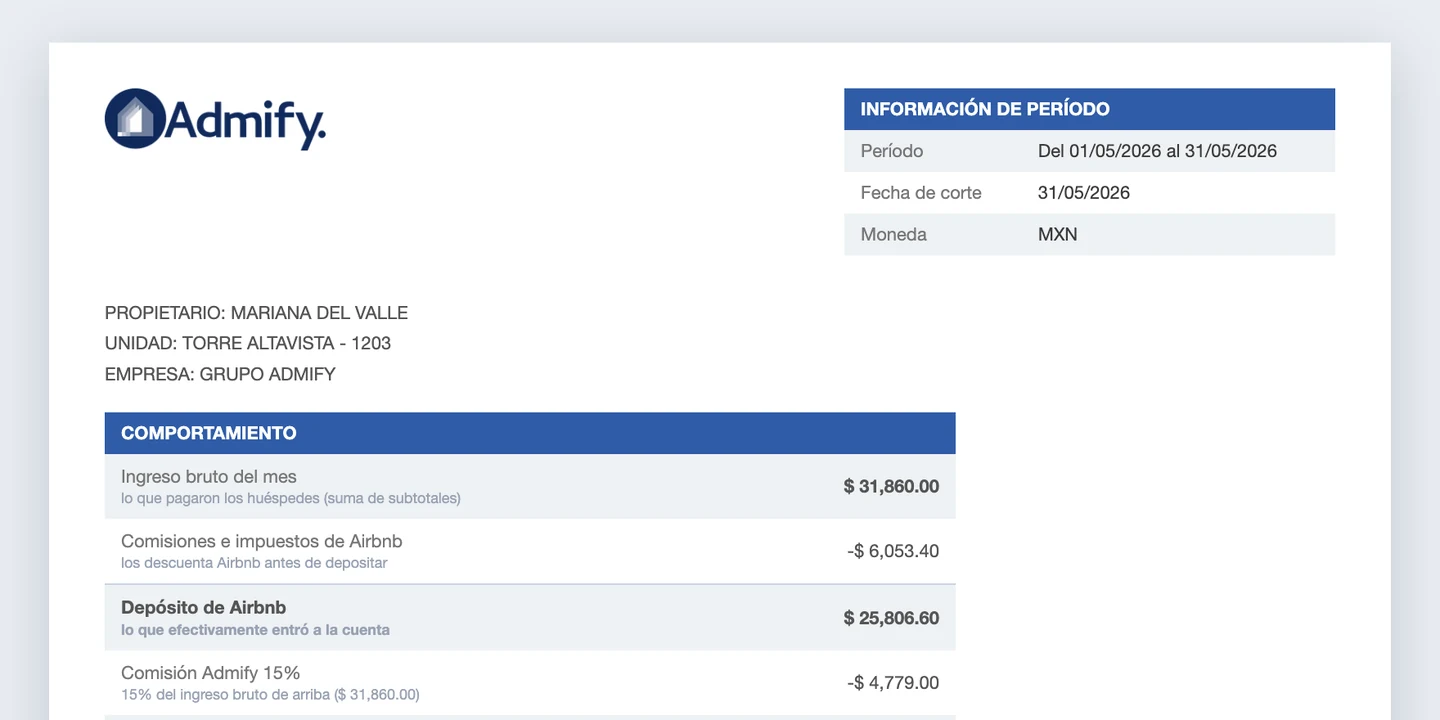
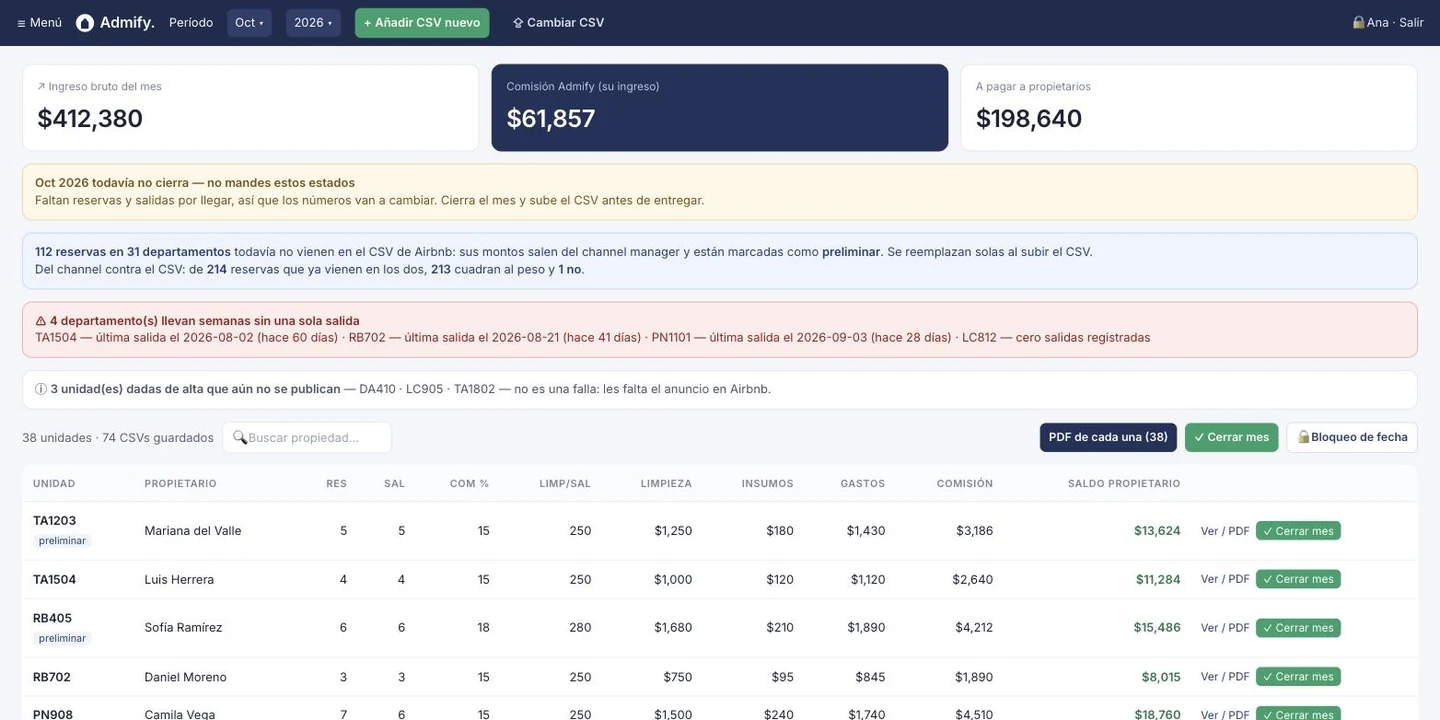
proyectos: panel de Admify mas amplio y sin cortes; preview de Admify con el panel (datos de ejemplo)

diff --git a/proyectos.html b/proyectos.html
@@ -10,7 +10,7 @@
   <link rel="preconnect" href="https://fonts.gstatic.com" crossorigin>
   <link rel="stylesheet" href="https://fonts.googleapis.com/css2?family=Space+Grotesk:wght@400;500;600;700&amp;family=Inter:wght@400;500;600&amp;family=JetBrains+Mono:wght@400;500&amp;display=swap">
   <link rel="stylesheet" href="styles.css?v=20260930a">
-  <link rel="stylesheet" href="proyectos.css?v=20261001a">
+  <link rel="stylesheet" href="proyectos.css?v=20261001b">
   <script>
     /* el nombre del proyecto "vuela" desde la lista de la principal hasta aquí */
     (function(){ var h=(location.hash||'').replace('#',''); if(/^[a-z-]+$/.test(h)){ document.write('<style>#'+h+' .pj-name{view-transition-name:pj-title}</style>'); } })();
@@ -55,7 +55,7 @@
   </nav>
 
   <!-- ============ 01 ADMIFY · SISTEMA ============ -->
-  <article class="pj" id="admify" data-pj>
+  <article class="pj wide" id="admify" data-pj>
     <div class="pj-info">
       <div class="pj-top"><span class="pj-n">01</span><span class="pj-type sys">Sistema a medida</span></div>
       <h2 class="pj-name">Admify</h2>
@@ -98,7 +98,7 @@
   </article>
 
   <!-- ============ 02 PICHOUN · SISTEMA ============ -->
-  <article class="pj" id="pichoun" data-pj>
+  <article class="pj wide" id="pichoun" data-pj>
     <div class="pj-info">
       <div class="pj-top"><span class="pj-n">02</span><span class="pj-type sys">Sistema a medida</span></div>
       <h2 class="pj-name">Pichoun</h2>
@@ -332,6 +332,6 @@
 </footer>
 
 <script defer src="lenis.min.js?v=20261001c"></script>
-<script defer src="proyectos.js?v=20261001a"></script>
+<script defer src="proyectos.js?v=20261001b"></script>
 </body>
 </html>

diff --git a/proyectos.css b/proyectos.css
@@ -106,6 +106,7 @@ html.lenis{ scroll-behavior:auto !important; }
   border-bottom:1px solid var(--line);
   scroll-margin-top:118px;
 }
+.pj.wide{ grid-template-columns:minmax(0,.72fr) minmax(0,1.28fr); }
 .pj-info{ position:sticky; top:150px; }
 .pj-top{ display:flex; align-items:center; gap:.8rem; margin-bottom:1.1rem; }
 .pj-n{ font-family:"JetBrains Mono",monospace; font-size:.8rem; color:var(--mute); }
@@ -248,7 +249,8 @@ html.lenis{ scroll-behavior:auto !important; }
 /* ============================================================
    MOCK DEL SISTEMA DE ADMIFY (datos 100% inventados)
    ============================================================ */
-.am{ font-family:Inter,system-ui,sans-serif; color:#1B2437; background:#F4F6FA; font-size:13px; min-width:760px; }
+.am{ font-family:Inter,system-ui,sans-serif; color:#1B2437; background:#F4F6FA; font-size:13px; width:960px; }
+.pj-screen{ overflow-x:hidden; }
 .am-app{ height:46px; display:flex; align-items:center; gap:14px; padding:0 16px; background:#1E2B4D; color:#fff; font-size:12px; }
 .am-app .am-logo{ display:flex; align-items:center; gap:6px; font-weight:700; font-size:15px; letter-spacing:-.01em; }
 .am-app .am-logo i{ width:18px; height:18px; border-radius:50%; background:#fff; display:inline-block; position:relative; }

diff --git a/proyectos.js b/proyectos.js
@@ -140,12 +140,12 @@
     fitMocks();
     window.addEventListener("resize", fitMocks);
   }
-  // el mock está diseñado a 760px; en pantallas angostas se escala completo
+  // el mock está diseñado a 960px; se escala para caber completo en la ventana
   function fitMocks() {
     $$(".pj-screen").forEach(function (s) {
       $$(".am", s).forEach(function (am) {
         var w = s.clientWidth;
-        am.style.zoom = w && w < 760 ? (w / 760).toFixed(3) : "";
+        if (w) am.style.zoom = (w / 960).toFixed(4);
       });
     });
   }
